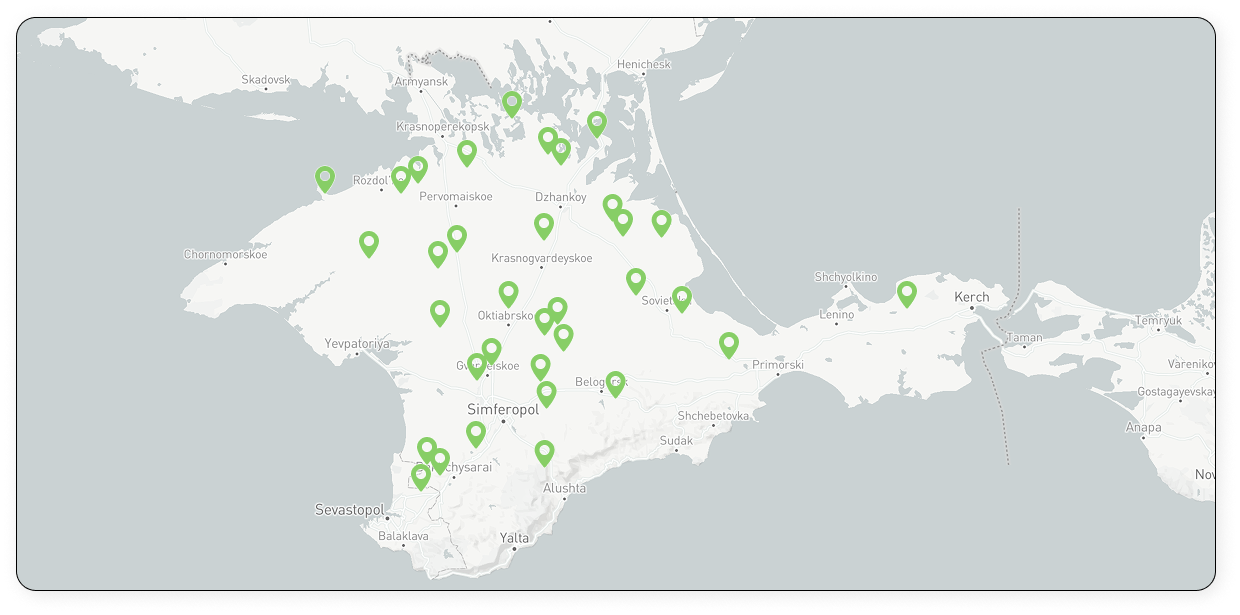
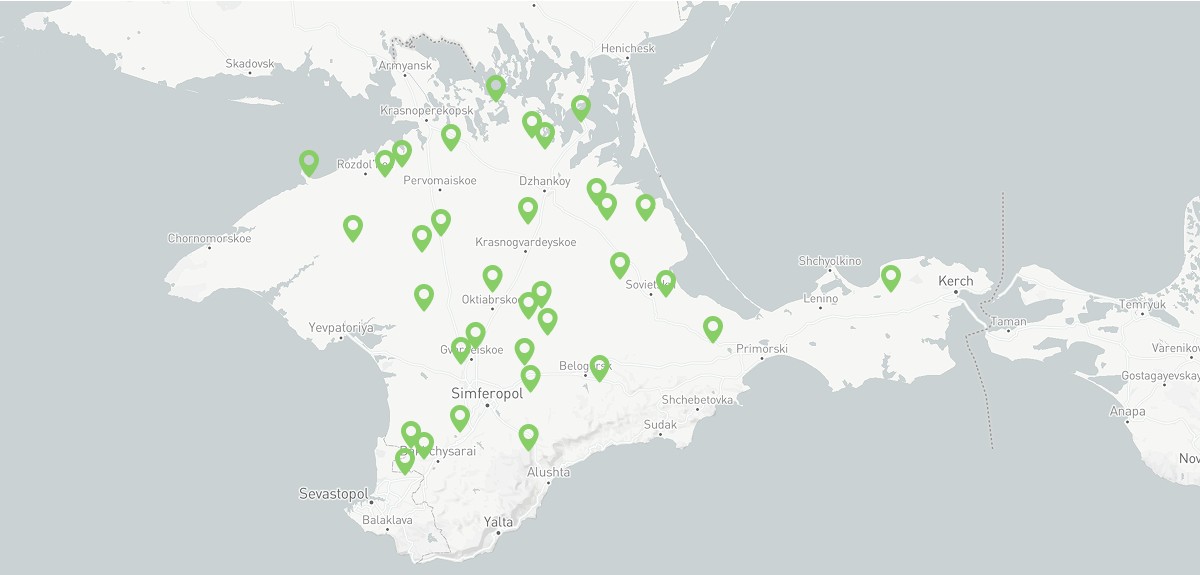
complete map section

diff --git a/src/scss/components/about.scss b/src/scss/components/about.scss
@@ -2,8 +2,8 @@
 @use "../base/mixins";
 
 .about {
-    height: 936px;
-    margin-bottom: 315px;
+    height: 960px;
+    margin-bottom: 0;
     overflow: hidden;
 
     background: url("../img/icons/icons.svg#big_target") right bottom / 466px
@@ -24,7 +24,7 @@
     @media (max-width: vars.$heroChange) {
         background: none;
         height: auto;
-        margin-bottom: 215px;
+        margin-bottom: 60px;
     }
 
     @media (max-width: vars.$mediaMobile) {
@@ -124,7 +124,7 @@
     margin-bottom: 68px;
 
     @media (max-width: vars.$heroChange) {
-        margin-bottom: 84px;
+        margin-bottom: 104px;
     }
 
     @media (max-width: vars.$mediaMobile) {
@@ -143,7 +143,7 @@
     box-shadow: 2px 2px 10px rgb(0, 0, 0, 0.1);
 
     @media (max-width: vars.$heroChange) {
-        font-size: 14px;
+        font-size: 15px;
         padding: 12px 24px;
         border-radius: 12.5px;
     }
@@ -188,7 +188,7 @@
         font-weight: 400;
 
         @media (max-width: vars.$heroChange) {
-            font-size: 14px;
+            font-size: 16px;
             line-height: 1.5;
         }
 

diff --git a/src/scss/components/map.scss b/src/scss/components/map.scss
@@ -1,1 +1,40 @@
-@use '../base/vars';
+@use "../base/vars";
+
+.map {
+    margin: -280px 0 53px 0;
+
+    @media (max-width: vars.$heroChange) {
+        margin: 0 0 40px 0;
+    }
+
+    @media (max-width: vars.$mediaMobile) {
+        margin: 0 0 21px 0;
+    }
+}
+
+.map__wrapper {
+    width: 100%;
+    overflow: hidden;
+    border-radius: 20px;
+    border: 1px solid black;
+    box-shadow: 4px 4px 20px rgb(0, 0, 0, 0.1);
+
+    img {
+        object-fit: cover;
+        width: 100%;
+        height: 100%;
+    }
+
+    @media (max-width: vars.$heroChange) {
+        margin-top: 0 0 0 21px;
+        height: 500px;
+        border-radius: 15px;
+        border: unset;
+    }
+
+    @media (max-width: vars.$mediaMobile) {
+        height: 390px;
+        border-radius: 10px;
+        margin-top: 0 0 0 21px;
+    }
+}

diff --git a/src/html/components/map.html b/src/html/components/map.html
@@ -1,7 +1,7 @@
 <section class="map" id="map" aria-label="Секция карты Крыма">
-  <div class="container">
-    <div class="map__wrapper">
-      <img src="#" alt="Карта Крыма" />
+    <div class="container">
+        <div class="map__wrapper">
+            <img src="./img/map.png" alt="Карта Крыма" />
+        </div>
     </div>
-  </div>
 </section>
